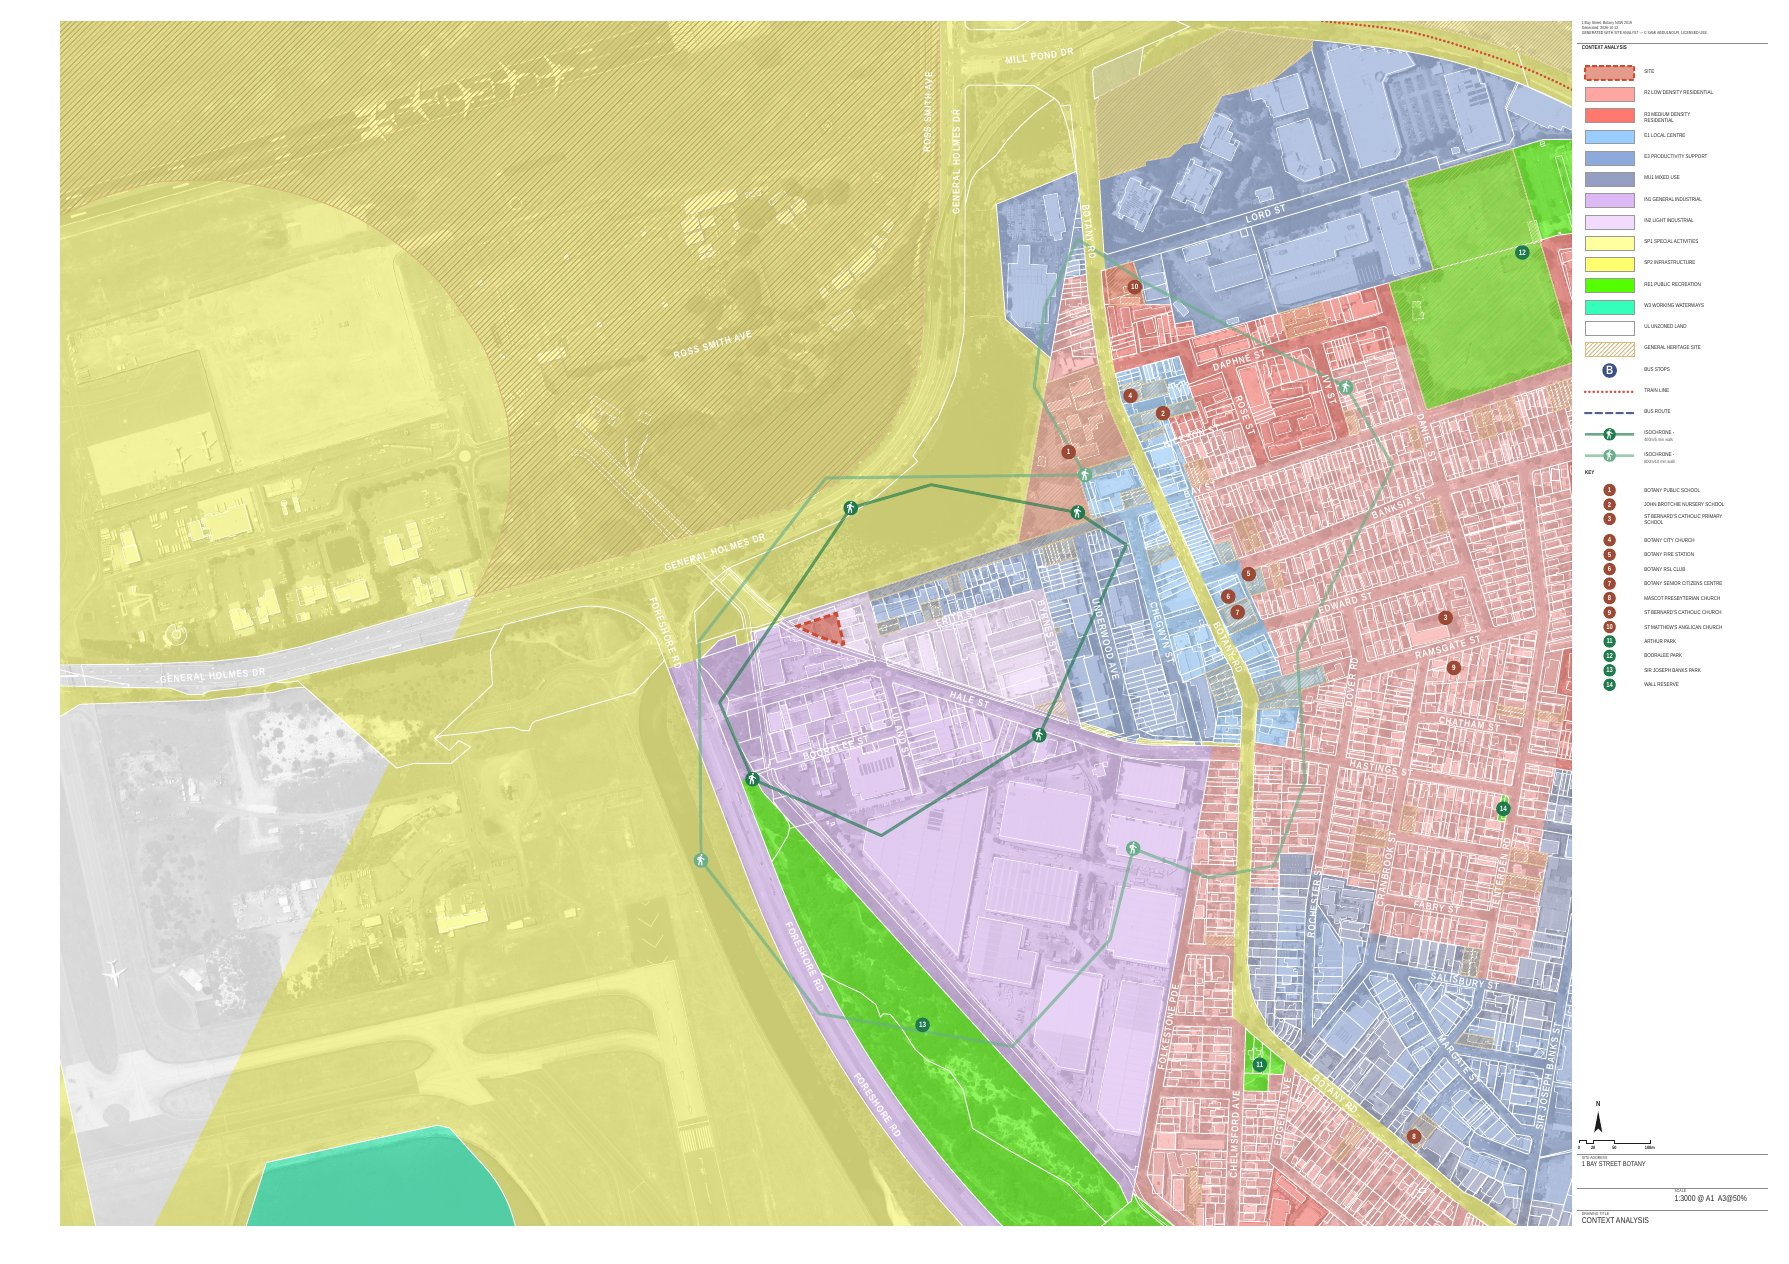
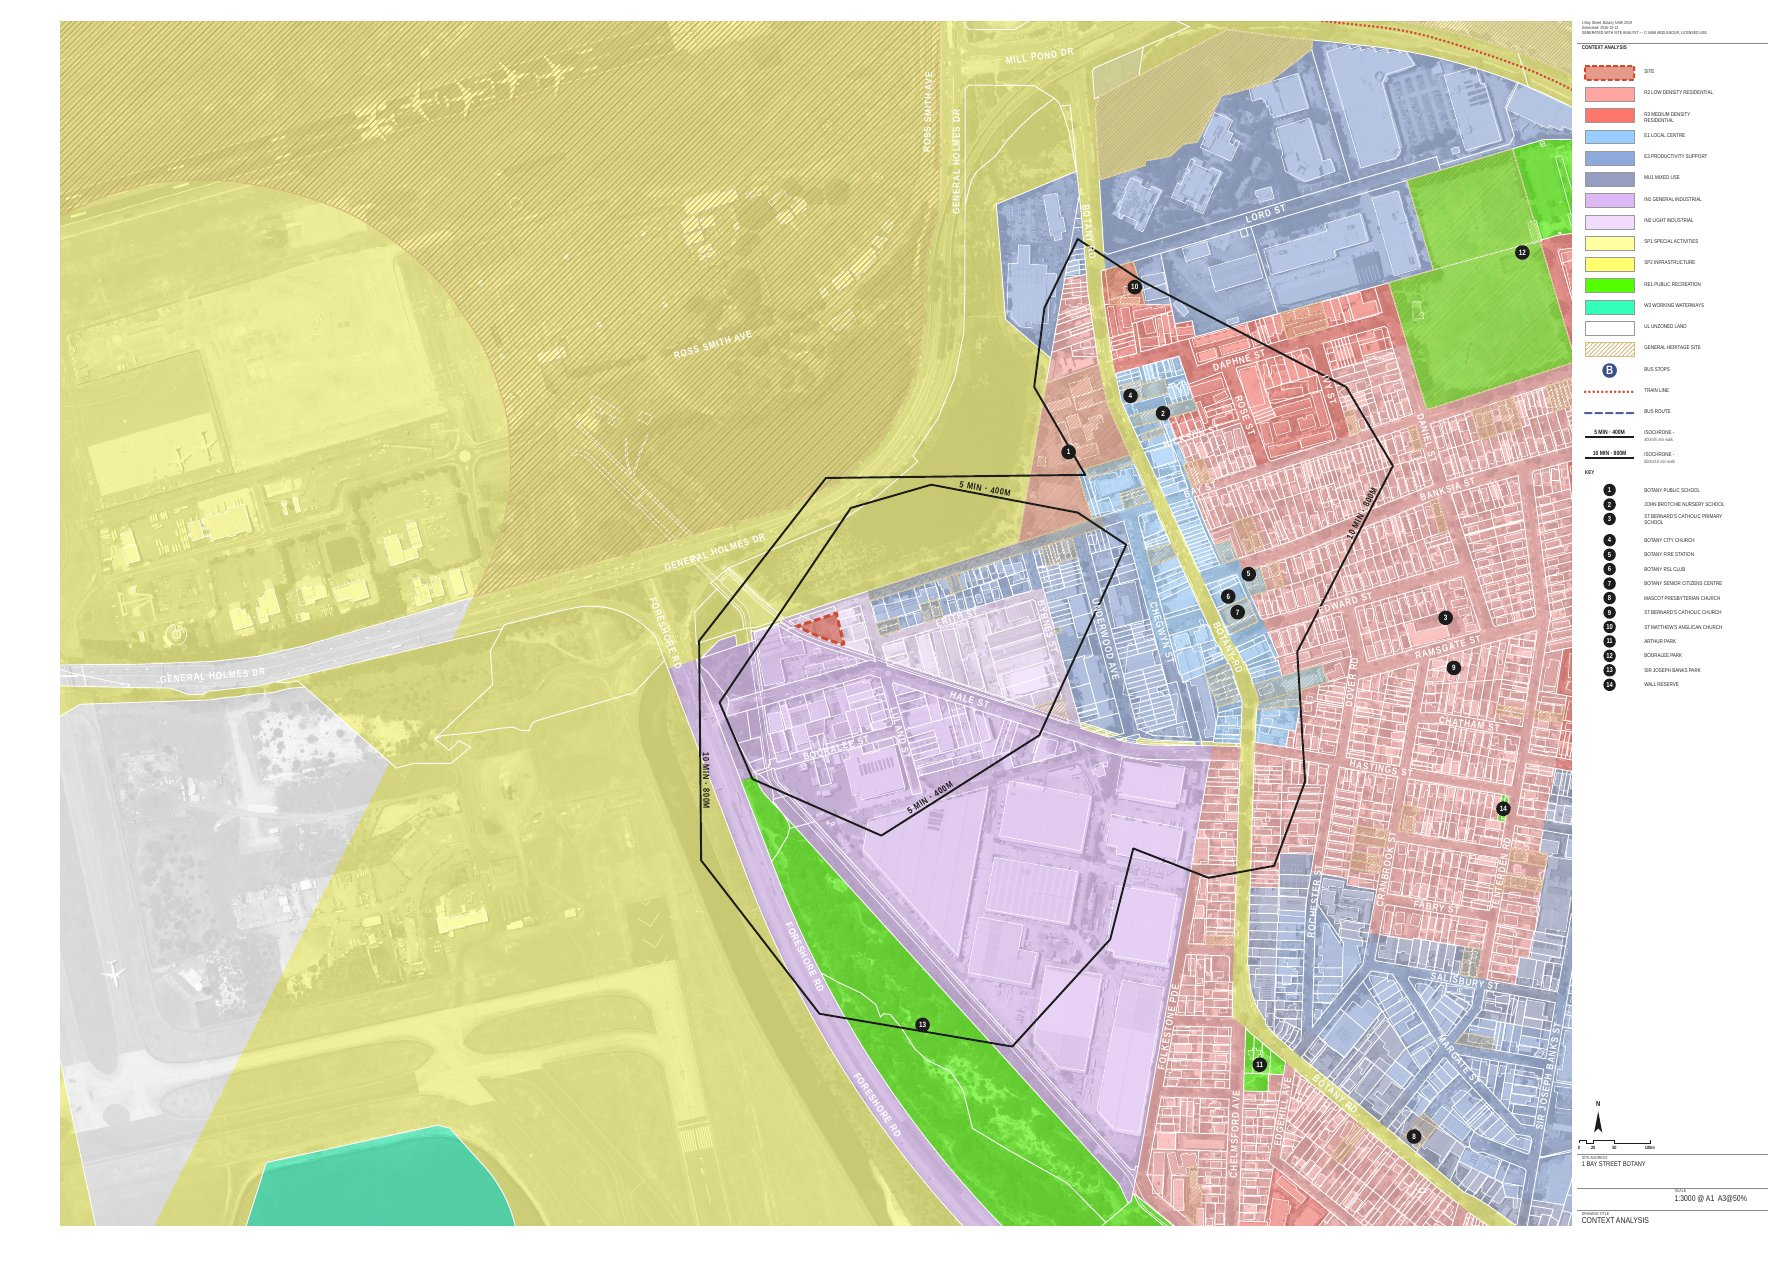
Conure: black numbered places, catchments as black lines labelled with time and distance
- Conure's institution and park number discs are black.
- Its walking catchments are plain black lines with "5 MIN · 400M" and
  "10 MIN · 800M" written along them (new isochrone mode 'labelled',
  placed by the same labeller as Flamingo's dotted rings), without the
  walker medallions; the legend swatch shows the line with its label.
- README and the Conure sample updated.

Claude-Session: https://claude.ai/code/session_01RgQLhzf6Uiv4rCaYoXs4QT

diff --git a/src/render/sheet.ts b/src/render/sheet.ts
@@ -714,6 +714,7 @@ export function renderSheet(bundle: Bundle, meta: SheetMeta): string {
   const lineIso = tpl().isochrone === 'line';
   const dottedIso = tpl().isochrone === 'dotted';
   const walkerIso = tpl().isochrone === 'walkers';
+  const labelledIso = tpl().isochrone === 'labelled';
   // Round dots a little apart, the way the bus routes are drawn but bolder.
   const ISO_DOTS = 'stroke-width="1.7" stroke-dasharray="0.01,2.8" stroke-linecap="round"';
   for (const iso of bundle.isochrones) {
@@ -731,6 +732,9 @@ export function renderSheet(bundle: Bundle, meta: SheetMeta): string {
         const pts: Pt[] = ring.map(([lon, lat]) => proj(lon, lat));
         for (const [x, y] of ringMarkers(pts, 4, iso.minutes === 5 ? 0.15 : 0.6)) layers.push(walkerMedallion(x, y, st.color));
       }
+    } else if (labelledIso) {
+      // A plain continuous line; its time and distance are written along it below.
+      layers.push(`<path d="${d}" fill="none" stroke="${st.color}" stroke-width="0.9" stroke-linejoin="round"/>`);
     } else if (lineIso) {
       // A plain continuous line, nothing on it.
       layers.push(`<path d="${d}" fill="none" stroke="${st.color}" stroke-width="1.2" stroke-linejoin="round"/>`);
@@ -982,14 +986,14 @@ export function renderSheet(bundle: Bundle, meta: SheetMeta): string {
   // the ones to give way. Each ring carries its time twice, half a ring
   // apart, on a straight stretch inside the map and clear of other labels;
   // the text sits just outside the line, reading left to right.
-  if (dottedIso) {
+  if (dottedIso || labelledIso) {
     const isoSize = T.street * 0.9;
     const isoDefs: string[] = [];
     const isoTexts: string[] = [];
     let iid = 0;
     for (const iso of bundle.isochrones) {
       const color = iso.minutes === 5 ? tpl().walk5 : tpl().walk10;
-      const label = `${iso.minutes} MIN`;
+      const label = labelledIso ? `${iso.minutes} MIN · ${iso.minutes * 80}M` : `${iso.minutes} MIN`;
       const textLen = label.length * (isoSize * 0.6 + 0.3) + 2;
       const slotLen = textLen + 4;
       const ring = [...iso.rings].sort((a, b) => b.length - a.length)[0];
@@ -1304,16 +1308,19 @@ export function renderSheet(bundle: Bundle, meta: SheetMeta): string {
   if (bundle.railLines.tram.length || bundle.bus.tramRouteSegments.length)
     legendRow(`<line x1="${SWATCH_X}" y1="3.2" x2="${SWATCH_X + SWATCH_W}" y2="3.2" stroke="${tpl().busRoute}" stroke-width="0.9" stroke-dasharray="3.4,1.8"/>`, ['TRAM ROUTE']);
   legendRow(`<line x1="${SWATCH_X}" y1="3.2" x2="${SWATCH_X + SWATCH_W}" y2="3.2" stroke="${tpl().transit}" ${busLineStyle} stroke-linecap="round"/>`, ['BUS ROUTE']);
-  const legendIso = (color: string) => dottedIso
+  const legendIso = (color: string, minutes: number) => dottedIso
     ? `<line x1="${SWATCH_X}" y1="3.2" x2="${SWATCH_X + SWATCH_W}" y2="3.2" stroke="${color}" ${ISO_DOTS} opacity="0.85"/>`
     : walkerIso
     ? `<g><line x1="${SWATCH_X}" y1="3.2" x2="${SWATCH_X + SWATCH_W}" y2="3.2" stroke="${color}" stroke-width="1.2" opacity="0.65"/>
        <g transform="translate(${symC},3.2)"><circle r="2.9" fill="${color}"/>${walkerGlyph('#fff', 0.215)}</g></g>`
     : lineIso
     ? `<line x1="${SWATCH_X}" y1="3.2" x2="${SWATCH_X + SWATCH_W}" y2="3.2" stroke="${color}" stroke-width="1.2"/>`
+    : labelledIso
+    ? `<line x1="${SWATCH_X}" y1="4.4" x2="${SWATCH_X + SWATCH_W}" y2="4.4" stroke="${color}" stroke-width="0.9"/>` +
+      `<text x="${symC}" y="3.1" text-anchor="middle" font-family="${tpl().streetFont}" font-size="${(T.street * 0.62).toFixed(2)}" font-weight="700" fill="${color}">${minutes} MIN · ${minutes * 80}M</text>`
     : `<line x1="${SWATCH_X}" y1="3.2" x2="${SWATCH_X + SWATCH_W}" y2="3.2" stroke="${color}" stroke-width="${ISO_W}" opacity="${ISO_OPACITY}" stroke-linecap="round"/>`;
-  legendRow(legendIso(tpl().walk5), ['ISOCHRONE -'], '400m/5 min walk');
-  legendRow(legendIso(tpl().walk10), ['ISOCHRONE -'], '800m/10 min walk');
+  legendRow(legendIso(tpl().walk5, 5), ['ISOCHRONE -'], '400m/5 min walk');
+  legendRow(legendIso(tpl().walk10, 10), ['ISOCHRONE -'], '800m/10 min walk');
 
   // ---- the key: every numbered place, then the stations ------------------
   if (places.length || stationsOnMap.length) {

diff --git a/src/render/template.ts b/src/render/template.ts
@@ -68,8 +68,8 @@ export interface Template {
   busRoute: string;   // bus route dashes
   heritage: string;   // heritage hatch
 
-  /** The walking catchments: a broad translucent band, a plain continuous line, a dotted line with its walking time written along it, or the office's dashed line with walker medallions on it. */
-  isochrone: 'band' | 'line' | 'dotted' | 'walkers';
+  /** The walking catchments: a broad translucent band, a plain continuous line, a dotted line with its walking time written along it, the office's dashed line with walker medallions on it, or a continuous line with its time and distance written along it. */
+  isochrone: 'band' | 'line' | 'dotted' | 'walkers' | 'labelled';
   /** The stop and station roundels: a white disc with a coloured ring, or a solid coloured disc with a white letter. */
   roundel: 'ring' | 'solid';
   /** The bus routes: a dashed line, or a dotted one at reduced opacity that stays behind the tints. */
@@ -267,11 +267,13 @@ export const TEMPLATES: Template[] = [
     categories: HERON_CATEGORIES },
   { id: 'conure', label: 'Conure', note: 'Heron with the zoning in the NSW ePlanning colours, keyed by zone code',
     font: NARROW, streetFont: NARROW, textScale: 0.96,
-    // Heron's aerial, lines, lettering and marks; only the zoning differs.
-    ink: '#1c1c1c', streetInk: '#ffffff', discInk: '#9c4a36', discParkInk: '#1f7a4d', rule: '#8a8a8a',
+    // Heron's aerial, lines and lettering; the numbered places and the
+    // walking catchments in black, the catchments as plain lines with their
+    // time and distance written along them.
+    ink: '#1c1c1c', streetInk: '#ffffff', discInk: '#1c1c1c', discParkInk: '#1c1c1c', rule: '#8a8a8a',
     site: '#cf4a2e', dimension: '#3c4c5a', wind: '#6d8a99', sun: '#f0e4c0', road: '#7d7d7d', water: '#cbdae2',
-    transit: NAVY, rail: '#d43d33', walk5: '#1f7a4d', walk10: '#6aaf88', busRoute: '#7a8bb0', heritage: '#dbbb7b',
-    isochrone: 'walkers', roundel: 'solid', busLine: 'dashed', railLine: 'dotted',
+    transit: NAVY, rail: '#d43d33', walk5: '#1c1c1c', walk10: '#1c1c1c', busRoute: '#7a8bb0', heritage: '#dbbb7b',
+    isochrone: 'labelled', roundel: 'solid', busLine: 'dashed', railLine: 'dotted',
     ground: 'aerial', aerialTone: 'grey', veil: 0.36, tintScale: 1, footprints: 'outline', lots: 'white', streets: 'none', streetLabels: 'plain',
     // The zones in exactly the NSW ePlanning colours, keyed by zone code;
     // heritage in the ePlanning item tan.

diff --git a/README.md b/README.md
@@ -552,8 +552,10 @@ places with their key, the discs in black.
 Land Zoning colours (`zoning: 'lep'`): each zone code in its statutory fill,
 keyed by code and name (R2 LOW DENSITY RESIDENTIAL, E1 LOCAL CENTRE,
 SP2 INFRASTRUCTURE…), with no institution or railway tints laid over it and
-heritage in the ePlanning item tan. The aerial, lines, lettering and marks are
-Heron's.
+heritage in the ePlanning item tan. The numbered places are black discs, and
+the walking catchments plain black lines with their time and distance written
+along them ("5 MIN · 400M", `isochrone: 'labelled'`) instead of walker
+medallions. The aerial, lines and lettering are Heron's.
 
 The retired ids still resolve: `flamingo-white` to Flamingo, `flamingo-2` to
 Kingfisher, and
